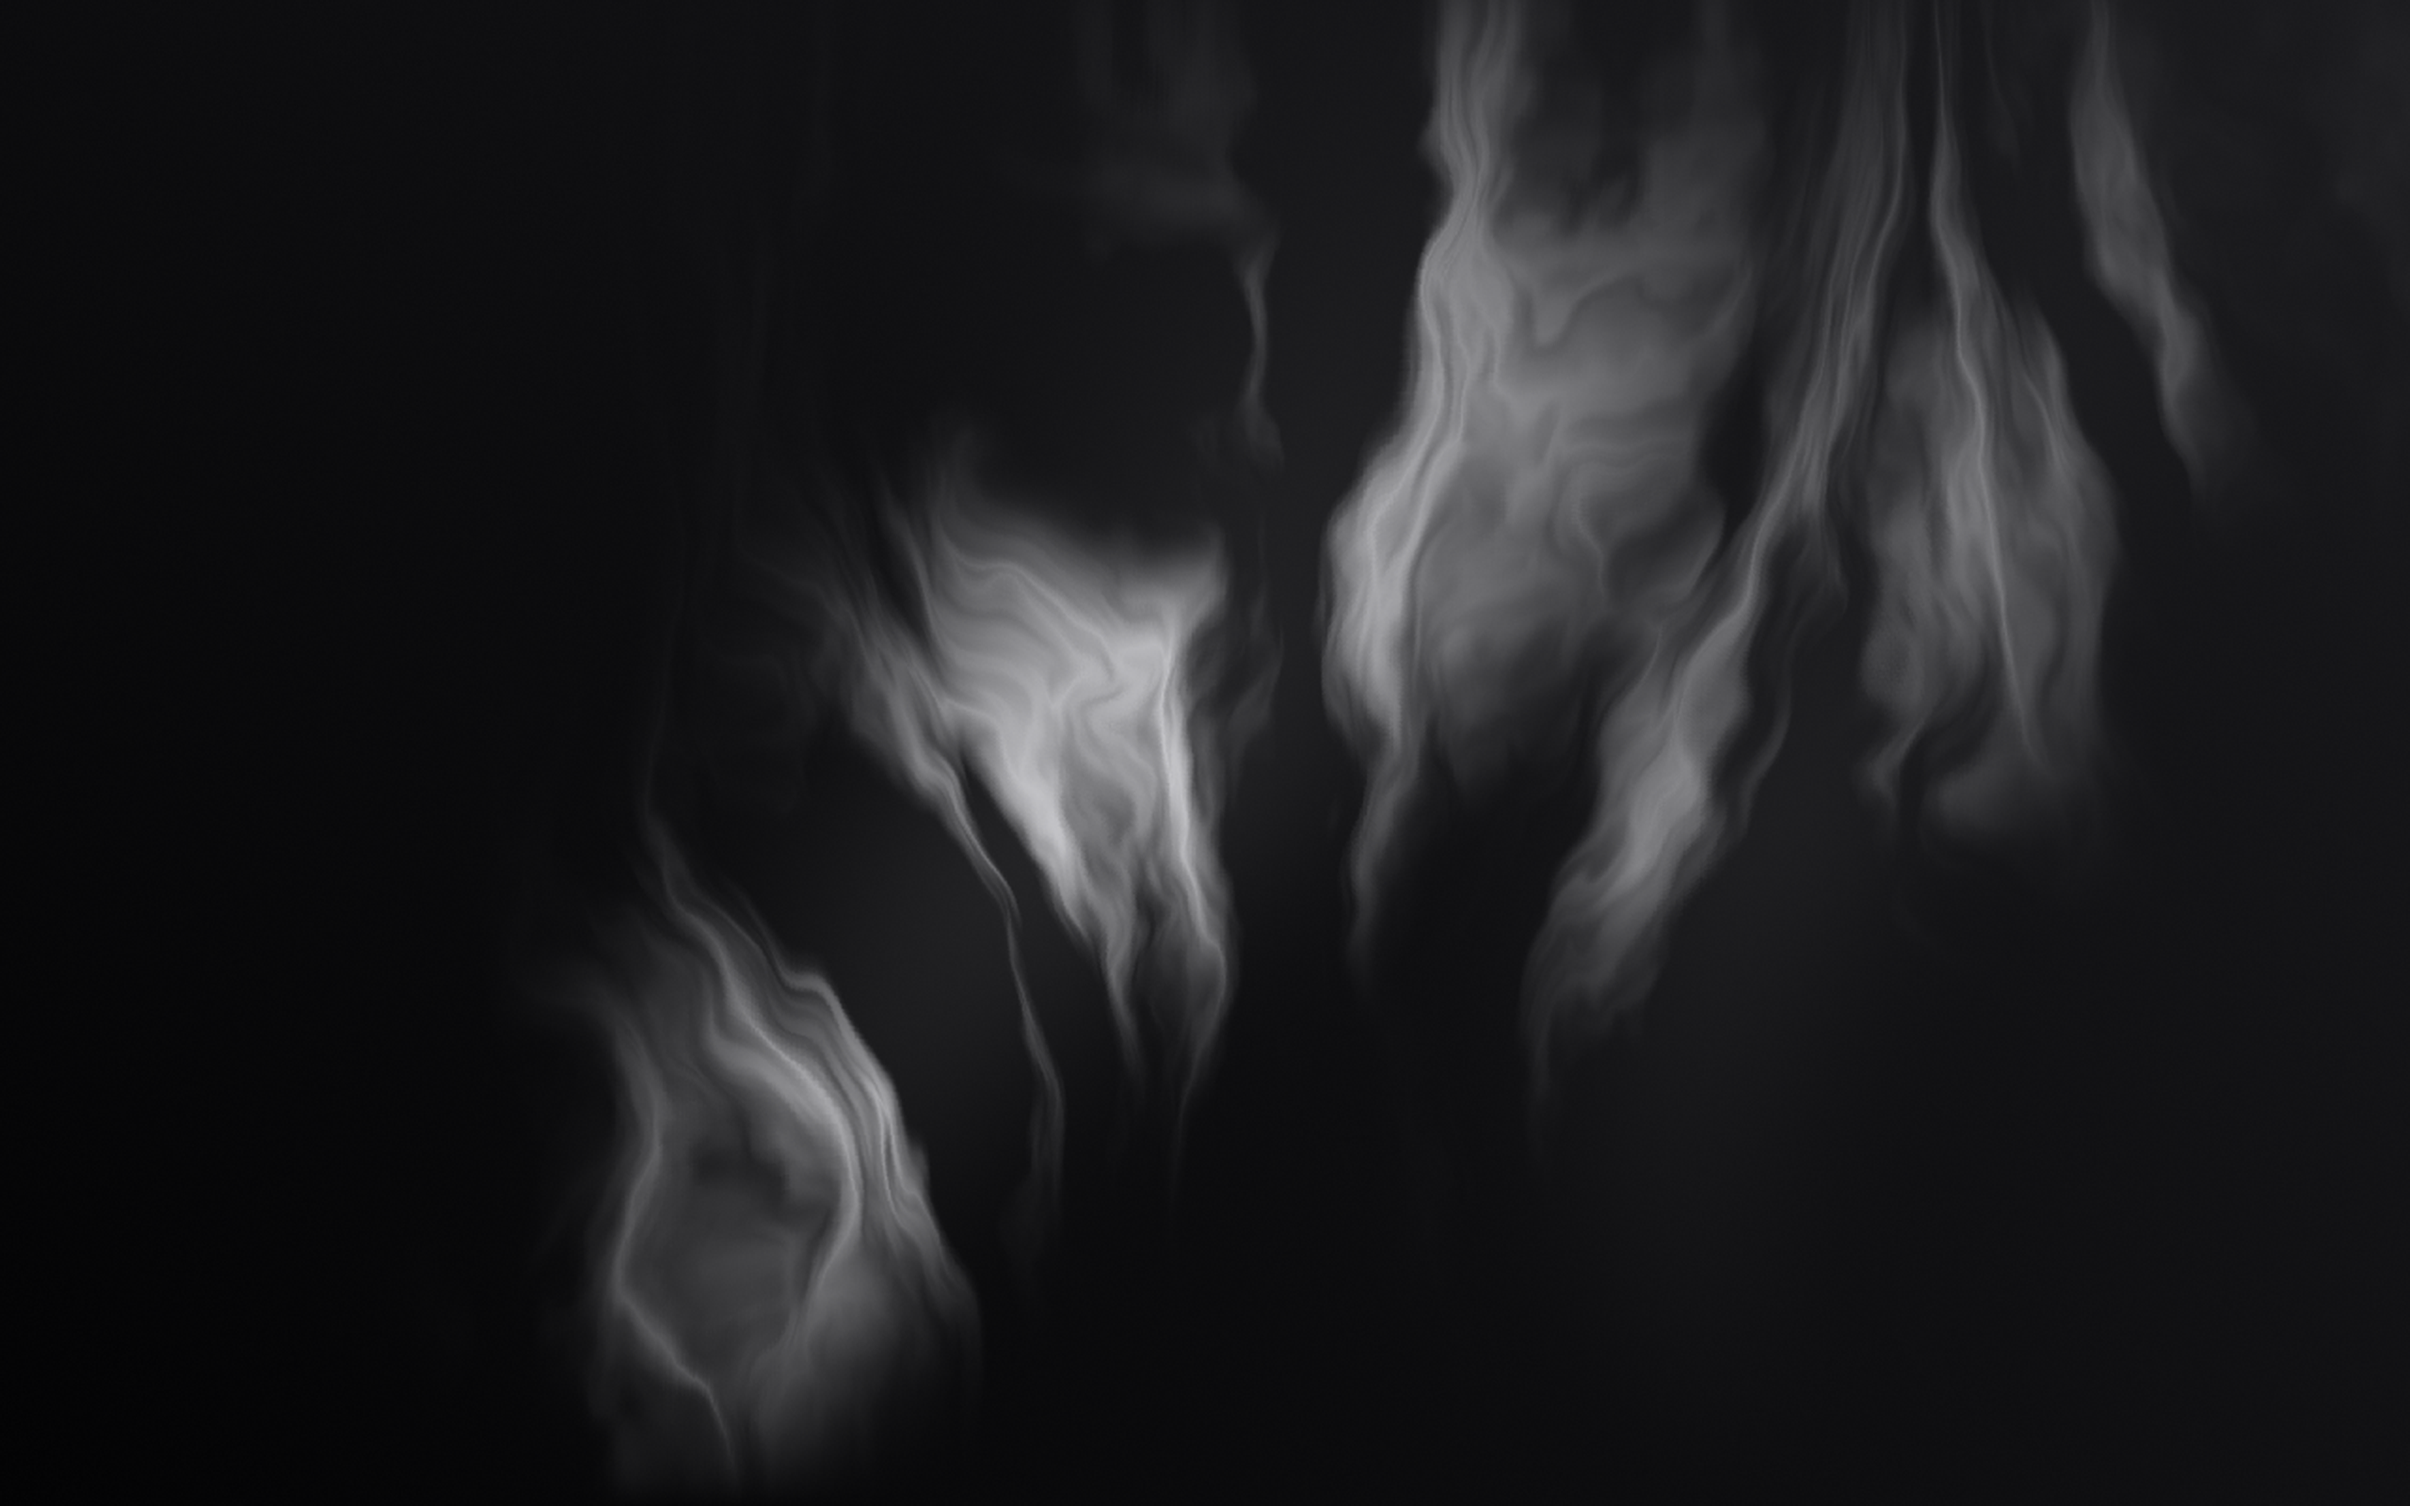
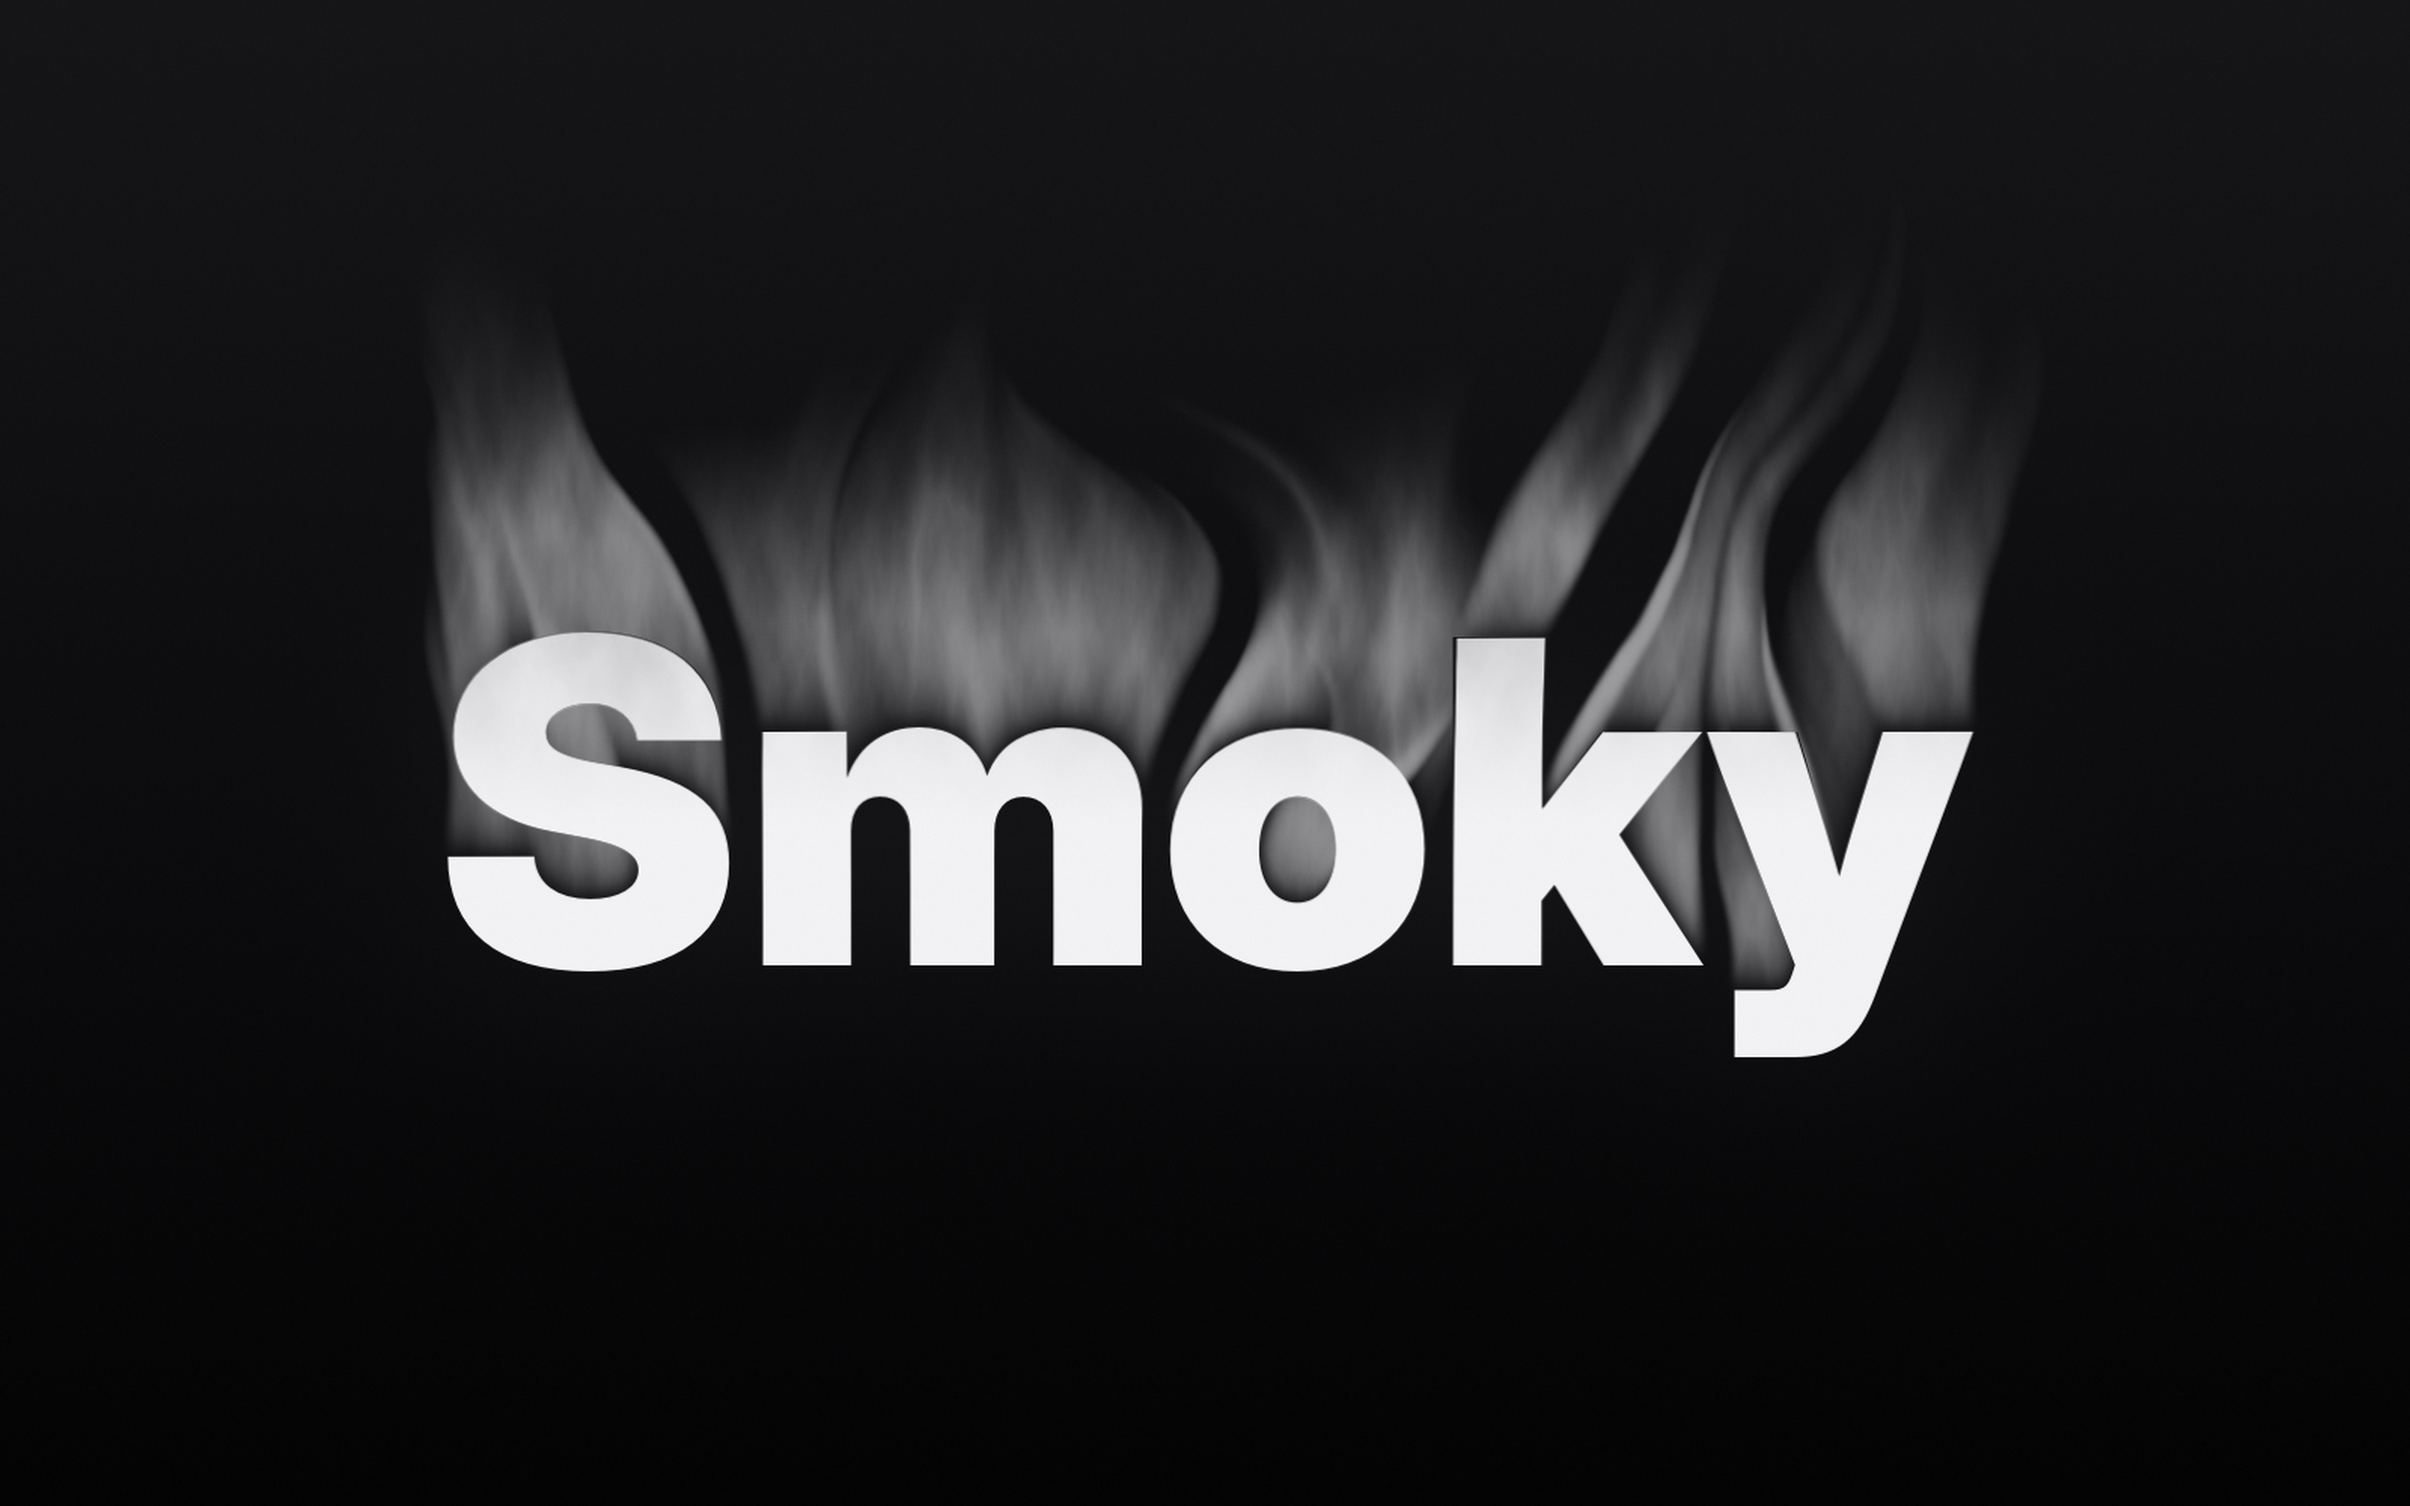
Fond d'écran : le mot Smoky qui part en fumée (généré par tools/make-wallpaper.py)
Claude-Session: https://claude.ai/code/session_01Am28KyZggWwMbdepy6uWyB

Changed region(s): [[0.1562, 0.0, 0.9375, 0.9688], [0.5, 0.1562, 0.5312, 0.3125]]

diff --git a/tools/make-wallpaper.py b/tools/make-wallpaper.py
@@ -1,81 +1,113 @@
 #!/usr/bin/env python3
-"""Génère les fonds d'écran « fumée » de Smoky OS (clair et sombre).
+"""Génère les fonds d'écran de Smoky OS : le mot « Smoky » qui part en fumée.
 
-Bruit fractal + déformation (domain warping) étiré verticalement pour
-imiter des volutes qui montent. Usage : python3 make-wallpaper.py DOSSIER
+Le bas des lettres reste net ; en montant, elles se déforment (bruit fractal
+« domain warping ») et laissent échapper des volutes. Noir, gris, blanc.
+Usage : python3 make-wallpaper.py DOSSIER [police.otf]
 """
 import sys
 import numpy as np
-from PIL import Image
+from PIL import Image, ImageDraw, ImageFont, ImageFilter
 
-W, H = 1280, 800          # calcul en demi-résolution, agrandi ensuite (fumée = flou)
+W, H = 1600, 1000           # calcul à 62,5 %, agrandi ensuite (la fumée est floue)
 OUT_W, OUT_H = 2560, 1600
-rng = np.random.default_rng(1309)
+FONT = sys.argv[2] if len(sys.argv) > 2 else "/usr/share/fonts/opentype/inter/InterDisplay-Black.otf"
+rng = np.random.default_rng(2207)
 
 
-def noise(scale_x, scale_y):
-    """Bruit lisse : grille aléatoire agrandie en bicubique."""
-    gw, gh = max(2, int(W / scale_x)), max(2, int(H / scale_y))
+def noise(sx, sy):
+    gw, gh = max(2, int(W / sx)), max(2, int(H / sy))
     g = (rng.random((gh, gw)) * 255).astype(np.uint8)
-    img = Image.fromarray(g).resize((W, H), Image.BICUBIC)
-    return np.asarray(img, dtype=np.float32) / 255.0
+    return np.asarray(Image.fromarray(g).resize((W, H), Image.BICUBIC), np.float32) / 255
 
 
-def fbm(scale_x, scale_y, octaves=5):
-    total, amp, norm = 0.0, 1.0, 0.0
+def fbm(sx, sy, octaves=5):
+    tot, amp, norm = 0.0, 1.0, 0.0
     for i in range(octaves):
-        total = total + amp * noise(scale_x / 2 ** i, scale_y / 2 ** i)
+        tot = tot + amp * noise(sx / 2 ** i, sy / 2 ** i)
         norm += amp
         amp *= 0.5
-    return total / norm
+    return tot / norm
 
 
-def sample(field, xs, ys):
-    """Lecture bilinéaire de field aux coordonnées (xs, ys)."""
+def sample(f, xs, ys):
     xs = np.clip(xs, 0, W - 1.001)
     ys = np.clip(ys, 0, H - 1.001)
     x0, y0 = xs.astype(int), ys.astype(int)
     fx, fy = xs - x0, ys - y0
-    a = field[y0, x0] * (1 - fx) + field[y0, x0 + 1] * fx
-    b = field[y0 + 1, x0] * (1 - fx) + field[y0 + 1, x0 + 1] * fx
+    a = f[y0, x0] * (1 - fx) + f[y0, x0 + 1] * fx
+    b = f[y0 + 1, x0] * (1 - fx) + f[y0 + 1, x0 + 1] * fx
     return a * (1 - fy) + b * fy
 
 
+def blur(f, r):
+    if r <= 0:
+        return f
+    img = Image.fromarray((np.clip(f, 0, 1) * 255).astype(np.uint8))
+    return np.asarray(img.filter(ImageFilter.GaussianBlur(r)), np.float32) / 255
+
+
+# --- Le mot « Smoky » ---------------------------------------------------------
+font = ImageFont.truetype(FONT, 300)
+canvas = Image.new("L", (W, H), 0)
+d = ImageDraw.Draw(canvas)
+x0, y0, x1, y1 = d.textbbox((0, 0), "Smoky", font=font)
+tx, ty = (W - (x1 - x0)) // 2 - x0, int(H * 0.56) - (y1 - y0) // 2 - y0
+d.text((tx, ty), "Smoky", font=font, fill=255)
+mask = np.asarray(canvas, np.float32) / 255
+top, bottom = ty + y0, ty + y1                      # haut et bas des lettres
+
 yy, xx = np.mgrid[0:H, 0:W].astype(np.float32)
+wx, wy = fbm(220, 300) - 0.5, fbm(220, 300) - 0.5
+cx, cy = fbm(70, 140) - 0.5, fbm(70, 140) - 0.5    # petites volutes
 
-# Déformation en deux passes : volutes qui s'enroulent
-wx, wy = fbm(260, 520), fbm(260, 520)
-x1, y1 = xx + (wx - 0.5) * 260, yy + (wy - 0.5) * 140
-wx2, wy2 = sample(fbm(160, 320), x1, y1), sample(fbm(160, 320), x1, y1)
-x2, y2 = x1 + (wx2 - 0.5) * 180, y1 + (wy2 - 0.5) * 90
+# Hauteur relative dans les lettres : 0 en bas, 1 en haut, >1 au-dessus
+h = np.clip((bottom - yy) / (bottom - top), 0, 3)
 
-# Filaments : bruit étiré verticalement, crêtes accentuées
-base = sample(fbm(90, 360, 6), x2, y2)
-ridges = 1.0 - np.abs(base * 2.0 - 1.0)
-density = np.clip((ridges - 0.62) * 2.6, 0, 1) ** 1.8
+# Lettres : nettes en bas, de plus en plus ondulées vers le haut
+amp = 0.6 + 7 * np.clip(h, 0, 1) ** 3
+letters = sample(mask, xx + wx * amp + cx * amp * 0.6, yy + wy * amp * 0.5)
+fade = 1 - 0.32 * np.clip(h - 0.55, 0, 1) ** 1.2 * (0.4 + 1.2 * fbm(30, 50))
+letters = np.clip(letters * fade, 0, 1)
 
-# Deux colonnes de fumée qui montent en ondulant vers la droite
-def column(cx, slope, width, strength):
-    t = 1.0 - yy / H                                 # 0 en bas, 1 en haut
-    center = cx + slope * t * W + np.sin(t * 5.0 + cx / 97) * 60
-    d = (xx - center) / (width * (0.6 + t))          # s'élargit en montant
-    rise = np.clip(t * 2.2, 0, 1) * np.clip((1.05 - t) * 1.6, 0, 1)   # naît en bas, s'évanouit en haut
-    return strength * np.exp(-d * d) * rise
+# Volutes : la fumée s'élève par petits pas depuis le haut des lettres,
+# portée par un courant qui tourne lentement (advection), et s'estompe.
+wx2, wy2 = fbm(160, 240) - 0.5, fbm(160, 240) - 0.5
+edge = np.clip(mask - sample(mask, xx, yy - 6), 0, 1)        # bords supérieurs des lettres
+source = blur(edge, 3.0) * (0.35 + 0.9 * fbm(25, 25))
+smoke = np.zeros((H, W), np.float32)
+puff = source.copy()
+steps = 120
+for i in range(steps):
+    k = i / steps
+    ang = k * 2.4
+    ux = (wx * np.cos(ang) + wx2 * np.sin(ang)) * (4 + 13 * k)
+    uy = (wy * np.cos(ang) + wy2 * np.sin(ang)) * (2 + 6 * k)
+    puff = sample(puff, xx + ux, yy + 3 + uy)            # monte de 3 px par pas
+    puff = blur(puff, 0.7 + 0.6 * k) * 0.993
+    smoke += puff * min(1.0, k * 5) * (1 - k) ** 1.2   # somme : pas de rayures
+smoke /= np.percentile(smoke, 99.7) + 1e-6
+fibres = 1 - np.abs(fbm(45, 160, 6) * 2 - 1)             # filaments verticaux
+smoke = smoke * (0.45 + 0.9 * fibres ** 1.6)
+smoke = 0.62 * (1 - np.exp(-1.6 * smoke))          # douce, jamais blanche pure
 
-band = np.maximum(column(0.32 * W, 0.26, 120, 1.0), column(0.72 * W, 0.10, 90, 0.55))
-smoke = 1.0 - np.exp(-(density * band * 2.2 + band * 0.12))   # saturation douce
+smoke = smoke * (1 - mask)                          # la fumée ne recouvre pas les lettres
+ink = np.clip(1 - (1 - letters) * (1 - smoke), 0, 1)   # fusion « écran »
+halo = blur(mask, 60) * 0.25                         # lueur douce derrière
 
 
-def render(bg_a, bg_b, smoke_rgb, alpha, path):
-    t = ((xx / W) * 0.6 + (1 - yy / H) * 0.4)[..., None]
+def render(bg_a, bg_b, ink_rgb, glow_rgb, path):
+    t = (yy / H)[..., None]
     bg = np.array(bg_a) * (1 - t) + np.array(bg_b) * t
-    s = (smoke * alpha)[..., None]
-    rgb = bg * (1 - s) + np.array(smoke_rgb) * s
-    grain = (rng.random((H, W, 1)) - 0.5) * 2.0       # léger grain anti-bandes
-    img = np.clip(rgb + grain, 0, 255).astype(np.uint8)
-    Image.fromarray(img).resize((OUT_W, OUT_H), Image.LANCZOS).save(path, optimize=True)
+    g = halo[..., None]
+    bg = bg * (1 - g) + np.array(glow_rgb) * g
+    a = ink[..., None]
+    rgb = bg * (1 - a) + np.array(ink_rgb) * a
+    rgb += (rng.random((H, W, 1)) - 0.5) * 2.2         # grain anti-bandes
+    img = Image.fromarray(np.clip(rgb, 0, 255).astype(np.uint8))
+    img.resize((OUT_W, OUT_H), Image.LANCZOS).save(path, optimize=True)
 
 
 out = sys.argv[1] if len(sys.argv) > 1 else "."
-render((4, 4, 5), (26, 26, 29), (236, 236, 240), 0.95, f"{out}/smokyos-dark.png")
-render((246, 246, 247), (214, 214, 218), (40, 40, 46), 0.62, f"{out}/smokyos-light.png")
+render((22, 22, 25), (4, 4, 5), (242, 242, 245), (70, 70, 76), f"{out}/smokyos-dark.png")
+render((236, 236, 238), (208, 208, 212), (28, 28, 32), (255, 255, 255), f"{out}/smokyos-light.png")

diff --git a/README.md b/README.md
@@ -15,7 +15,7 @@ revenir à la version précédente depuis le menu de démarrage.
 | Claude | Claude Code installé à la 1re connexion (`claude` dans un terminal) + appli Claude |
 | Optimisation Z13 | asusctl / supergfxctl, RTX coupée (autonomie), charge limitée à 80 %, thermald, codecs, mises à jour auto |
 | Prise de notes façon GoodNotes | **Rnote** (cahiers infinis, stylet avec pression, import PDF, export PDF) |
-| Interface Smoky | Dock en bas, flou *statique* sur la barre et le dock (calculé une fois, ~0 % de batterie), icônes et curseurs WhiteSur (versions figées) pour toutes les applis, y compris le streaming, grands boutons tactiles dans le centre de contrôle, GSConnect (téléphone), Caffeine (anti-veille), boutons de fenêtre à gauche, thème « fumée » noir/gris/blanc : fond d'écran de volutes (version claire et sombre, mode sombre par défaut), centre de contrôle où les boutons actifs s'allument en blanc |
+| Interface Smoky | Dock en bas, flou *statique* sur la barre et le dock (calculé une fois, ~0 % de batterie), icônes et curseurs WhiteSur (versions figées) pour toutes les applis, y compris le streaming, grands boutons tactiles dans le centre de contrôle, GSConnect (téléphone), Caffeine (anti-veille), boutons de fenêtre à gauche, thème « fumée » noir/gris/blanc : fond d'écran avec le mot « Smoky » qui part en fumée (version claire et sombre, mode sombre par défaut), centre de contrôle où les boutons actifs s'allument en blanc |
 | Notes sauvegardées | Dossier **Notes** synchronisé toutes les 5 min avec Google Drive > « Notes Z13 » |
 
 ## Obtenir l'ISO (GitHub la construit pour toi, gratuitement)
